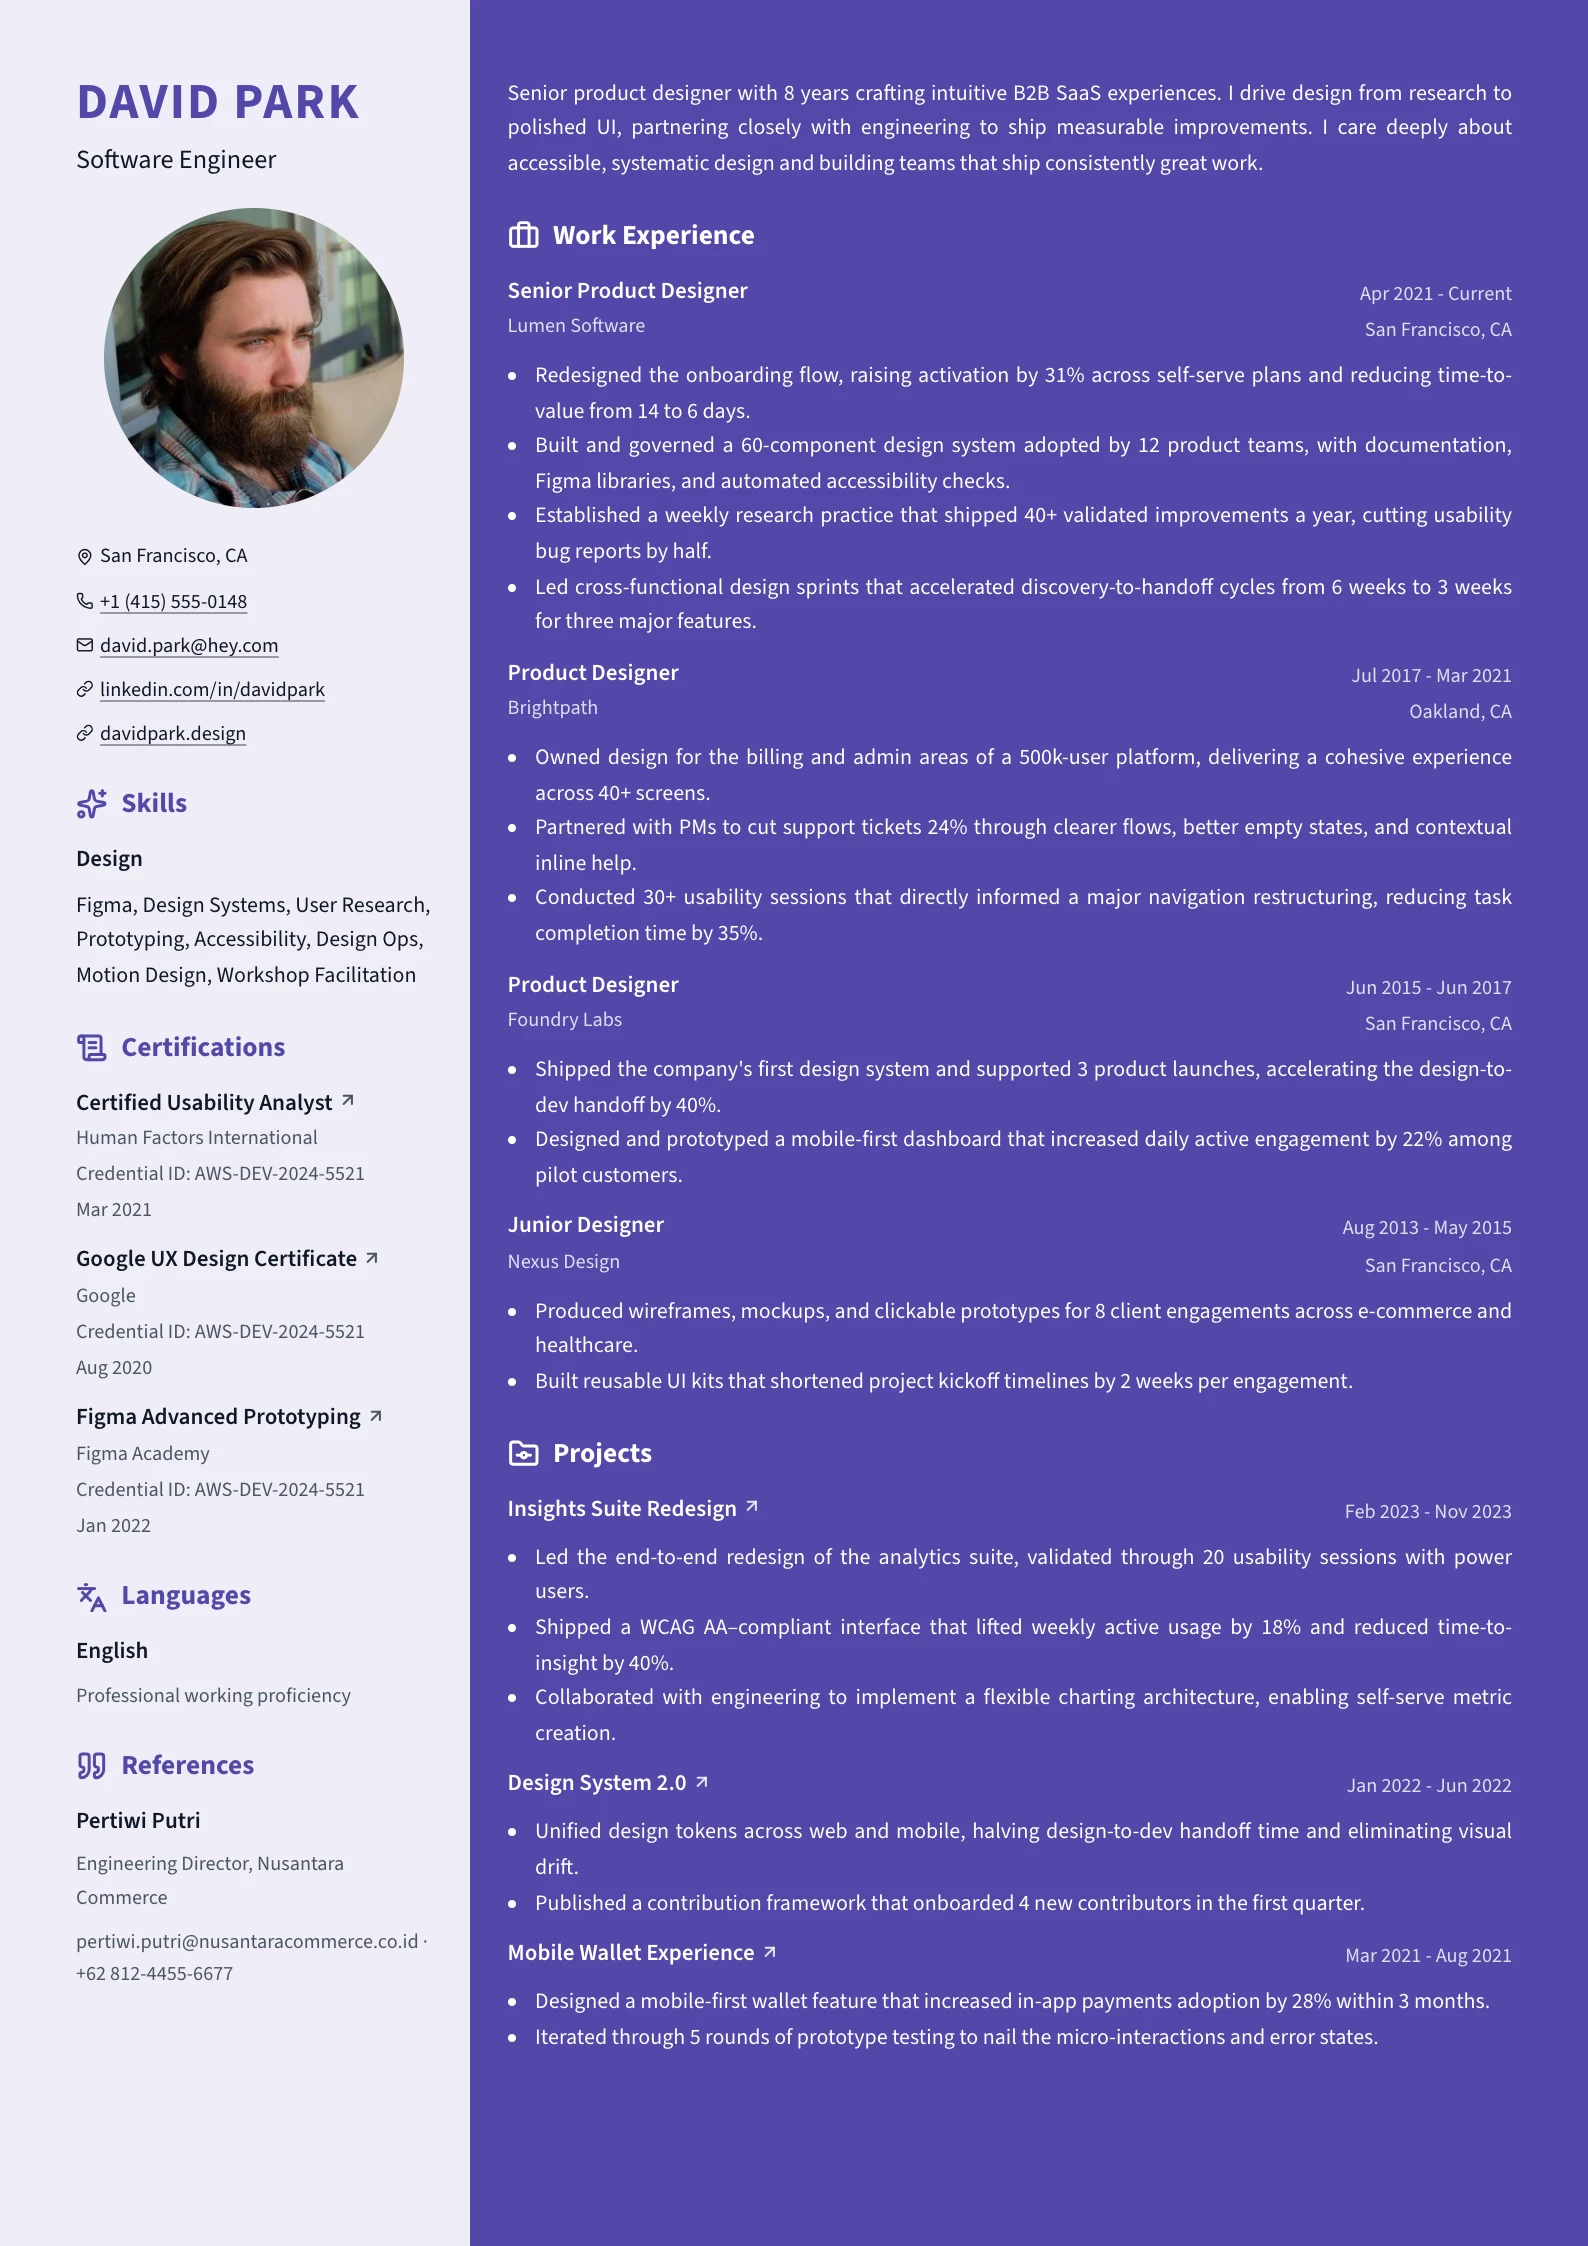
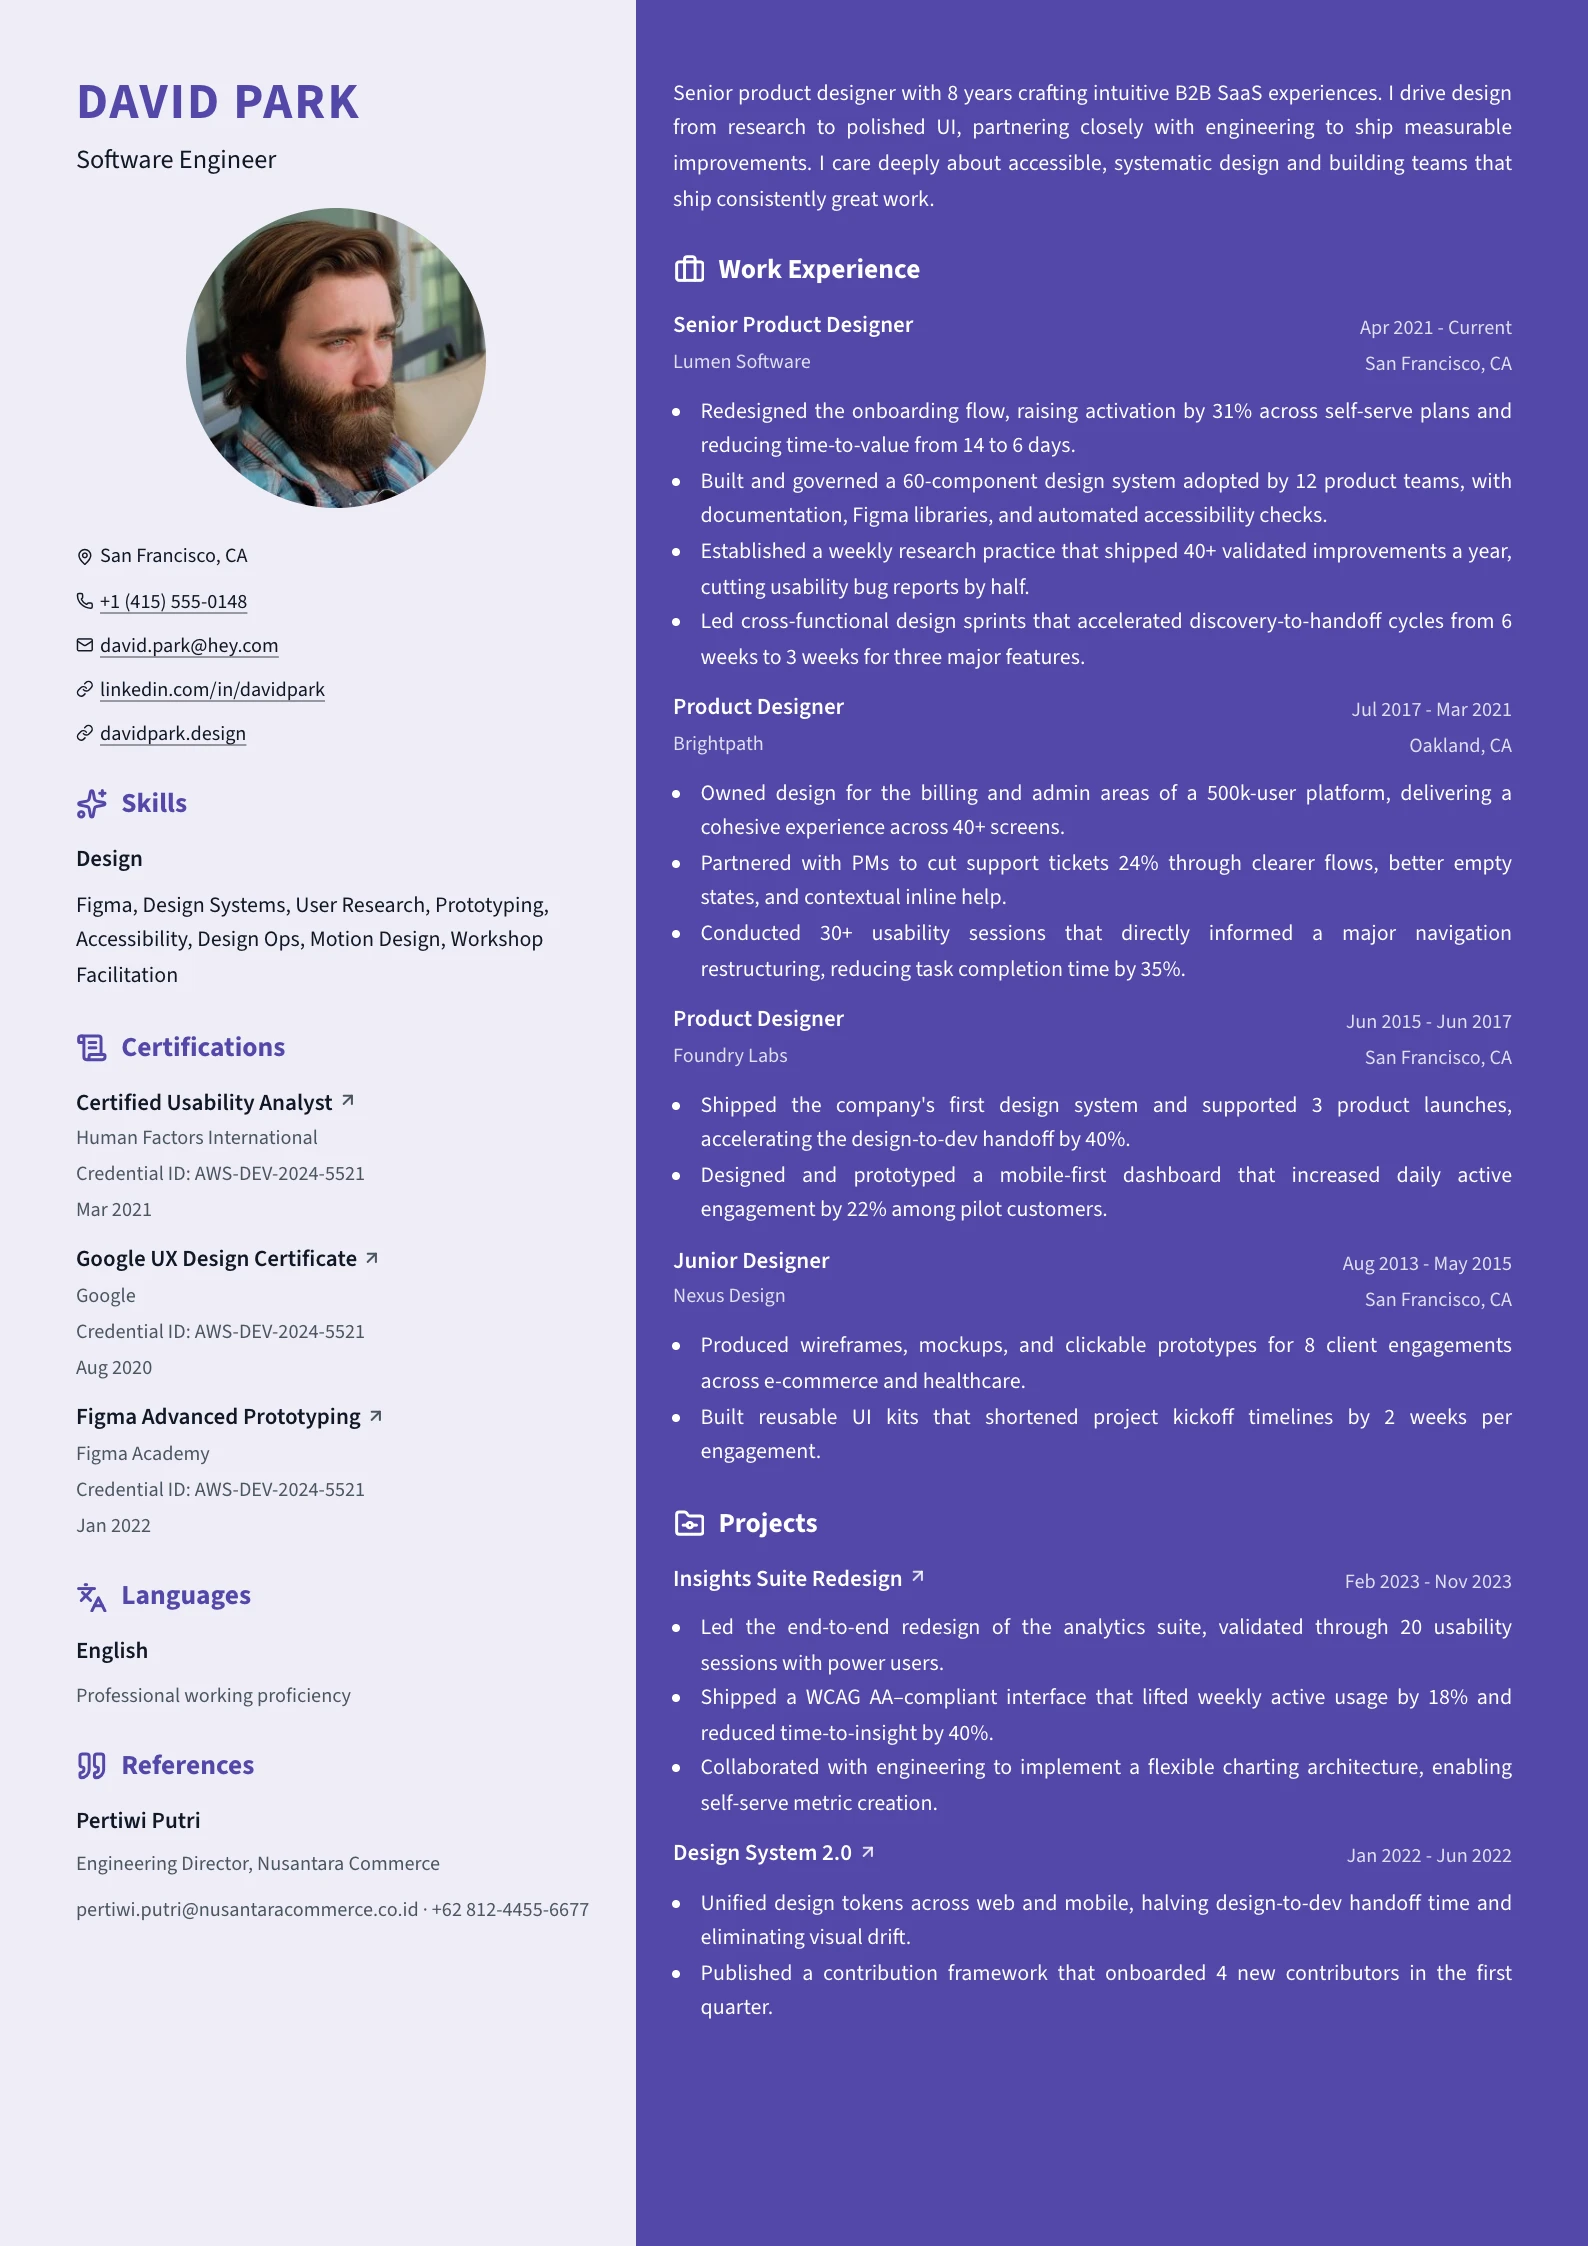
Widen duotone's rail to two fifths of the page
0.42fr against 1fr left the rail at about 30%, tight enough that a skill
run wrapped to three lines and the reference list broke mid-address. A
literal 2fr/3fr says the proportion outright and gives both columns a
measure that reads.

Changed region(s): [[0.0617, 0.0, 0.9565, 1.0], [0.0309, 0.8415, 0.2469, 0.8727], [0.648, 0.8103, 0.6788, 0.8415]]

diff --git a/src/features/resume-editor/preview/layouts/duotone/styles.module.css b/src/features/resume-editor/preview/layouts/duotone/styles.module.css
@@ -3,7 +3,7 @@
    print-color-adjust properties on each, or the page exports white. */
 .layout {
   display: grid;
-  grid-template-columns: minmax(0, 0.42fr) minmax(0, 1fr);
+  grid-template-columns: minmax(0, 2fr) minmax(0, 3fr);
   gap: 0;
 }
 
@@ -121,7 +121,7 @@
   text-align: justify;
 }
 
-/* Rail items stack: in a 0.42fr column an item header laid out in a row has
+/* Rail items stack: even at two fifths an item header laid out in a row has
    nowhere to put its date. */
 .layout :global(.layout-side .item-header),
 .layout :global(.layout-side .item-row) {

diff --git a/src/features/resume-editor/preview/layouts/duotone/README.md b/src/features/resume-editor/preview/layouts/duotone/README.md
@@ -1,7 +1,7 @@
 # Duotone
 
-Two washes of one hue meeting at a hard vertical seam. A narrow pale rail on the
-left carries the identity — name, headline, photo, contacts — and the rail
+Two washes of one hue meeting at a hard vertical seam. A pale rail across the left two
+fifths carries the identity — name, headline, photo, contacts — and the rail
 sections (skills, languages, certifications, references). The wider right column
 is filled with the accent at full saturation and holds the summary as an
 unheaded lede, then experience, education, projects and the rest in light type.
@@ -32,7 +32,7 @@ the glyph is the only shape either column carries. On the tint it takes the
 accent, on the fill the foreground, because a mid-tone glyph vanishes against a
 saturated ground.
 
-**The rail stacks.** At `0.42fr` an item header laid out as a row has nowhere to
+**The rail stacks.** Even at two fifths an item header laid out as a row has nowhere to
 put its date, so the rail uses `RailSkillsItem` / `RailLanguagesItem` and stacks
 `.item-header` and `.item-row` vertically — shared with `split` and `dossier`.
 
